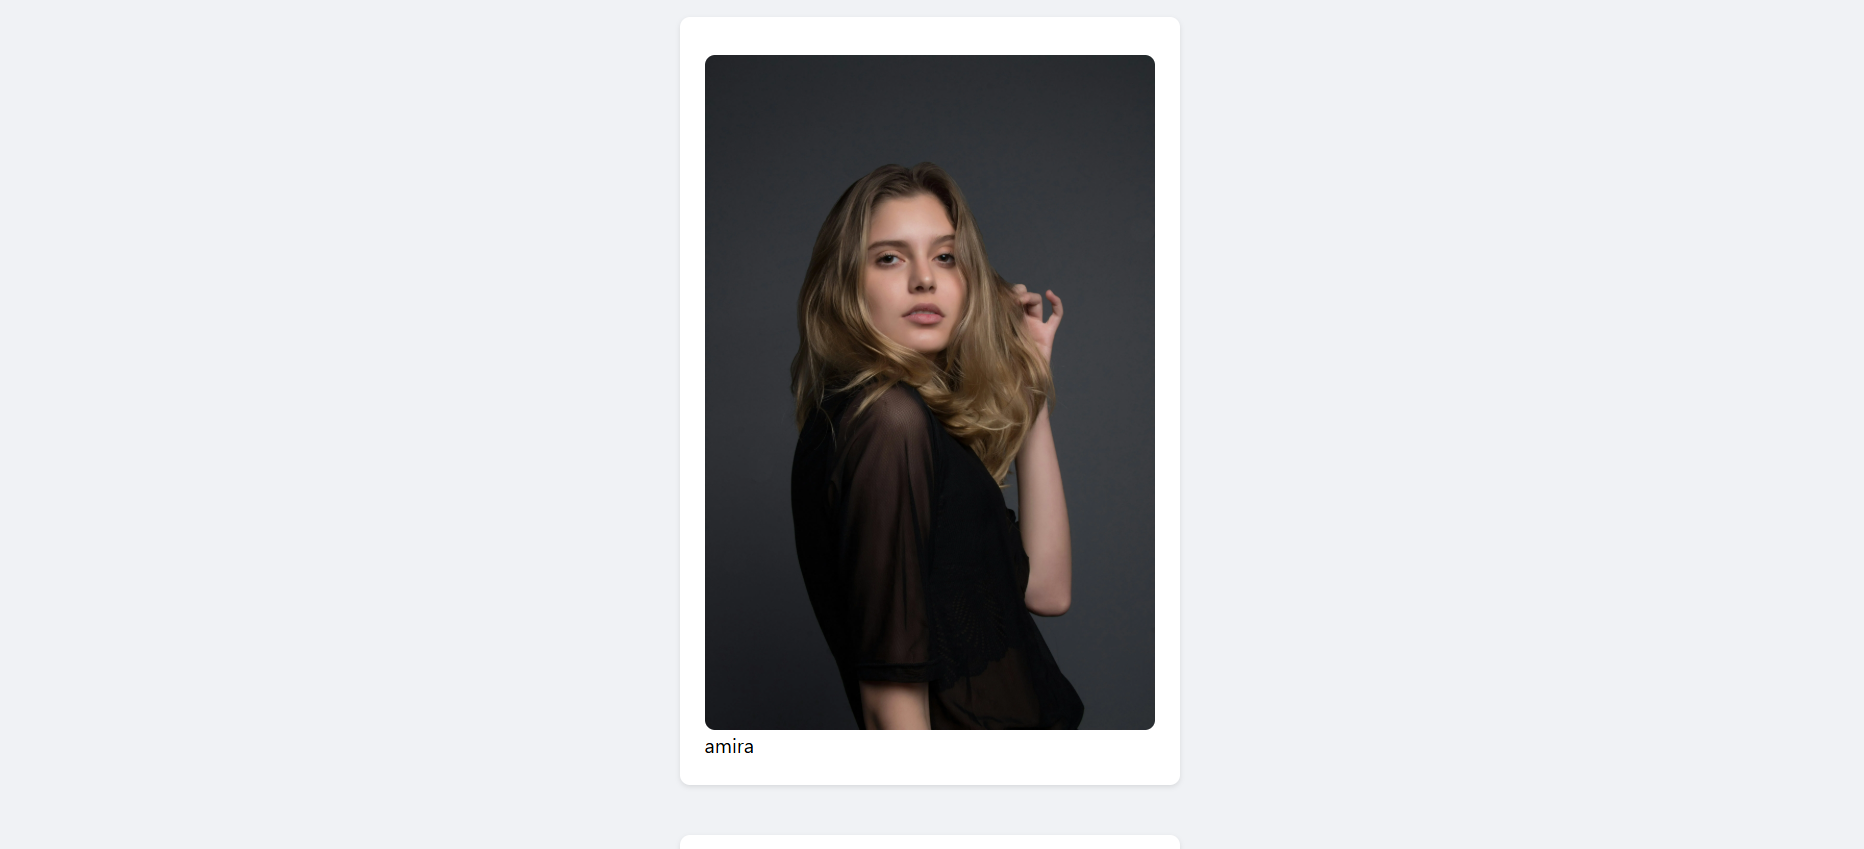
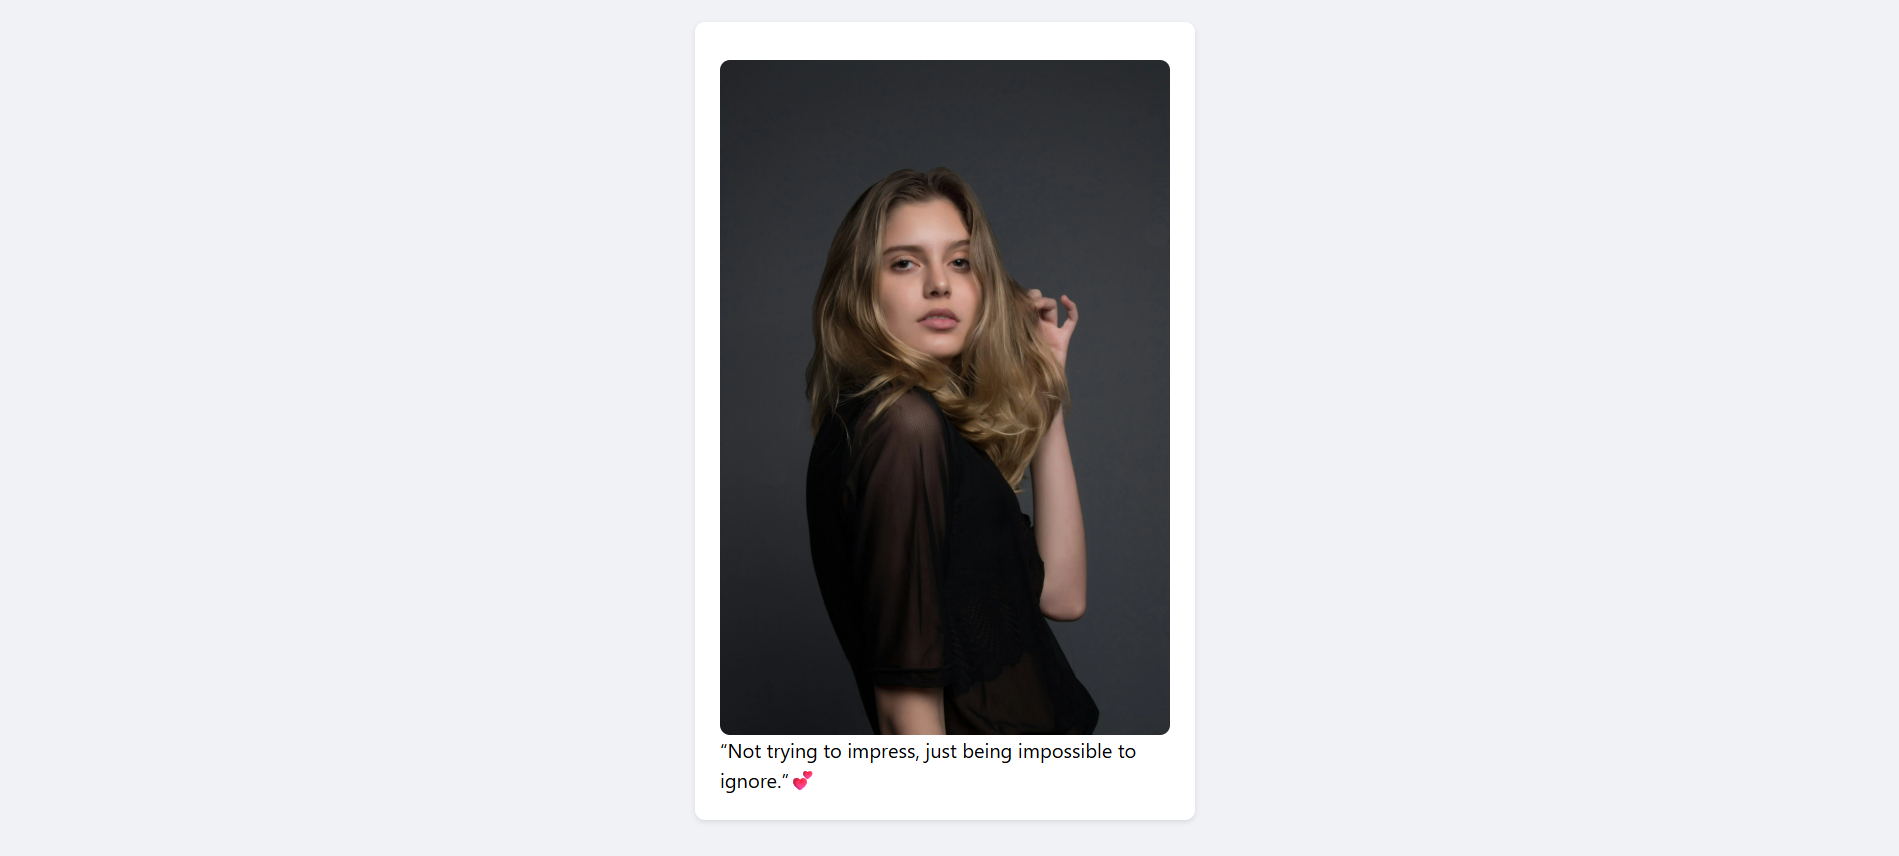
change path

Changed region(s): [[0.3734, 0.0612, 0.6223, 0.8575], [0.3734, 0.8575, 0.6223, 0.9494], [0.529, 0.7044, 0.5601, 0.735]]

diff --git a/Frontend/README.md b/Frontend/README.md
@@ -40,8 +40,8 @@ This project demonstrates real-world handling of file uploads using a cloud stor
 
 ## 📷 Screenshots
 
-![Home Page](./src/screenshot/image1.png)
-![Upload Page](./src/screenshot/image2.png)
+![Home Page](./Frontend/src/screenshot/image1.png)
+![Upload Page](./Frontend/src/screenshot/image2.png)
 
 ---
 
